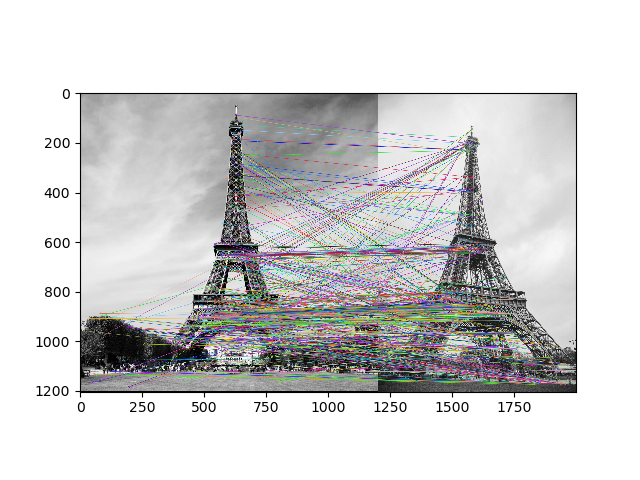
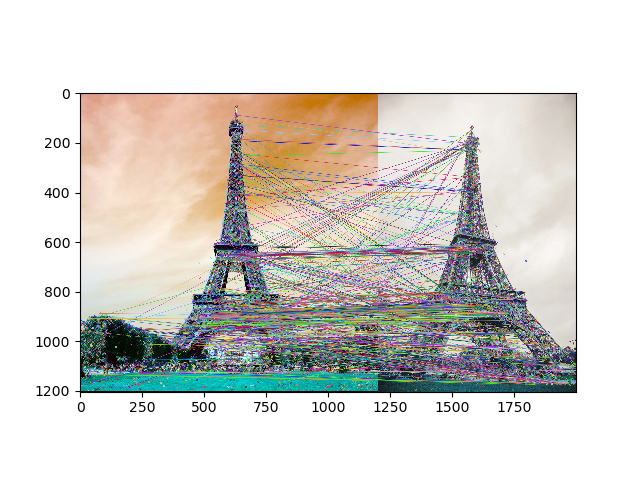
Fixed graphing for part 2

Changed region(s): [[0.125, 0.1875, 0.9062, 0.8438], [0.5625, 0.5625, 0.5938, 0.5938]]

diff --git a/Programming1/Programming1.py b/Programming1/Programming1.py
@@ -77,8 +77,7 @@ def keypoints(filename, idx):
     sift = cv.SIFT_create()
     kp, desc = sift.detectAndCompute(img, None)
 
-    outimg = img
-    img = cv.drawKeypoints(img, kp, outimg)
+    img = cv.drawKeypoints(grey, kp, img)
     cv.imwrite('sift_keypoints_{}.jpg'.format(idx),img)
     
     return grey, kp, desc
@@ -155,7 +154,7 @@ class Base:
 
 
 class K_Means(Base):
-    def __init__(self, data, k, r, dims=2):
+    def __init__(self, data, k, r, dims=2, shape=None):
         super().__init__(data, k, r, dims)
 
         best = np.inf
@@ -165,7 +164,8 @@ class K_Means(Base):
             if sses < best:
                 best = sses
                 bestCentroids = np.array(centroids)[:,0,:]
-
+        
+        # 2D Plot of clusters
         if dims == 2:
             for i in range(self.clusters):
                plt.plot(self.data[closestsCentroids==i, 0], 
@@ -176,15 +176,28 @@ class K_Means(Base):
             plt.show()
             return
         
-        fig = plt.figure()
-        ax = fig.add_subplot(projection='3d')
-        for i, m in zip(range(self.clusters), 
-                        ['o', 'x', '*', '#', '@', '!', '%', '^']):
+        # 3D Plot
+        #fig = plt.figure()
+        #ax = fig.add_subplot(projection='3d')
+        #for i, m in zip(range(self.clusters), 
+        #                ['o', 'x', '*', '#', '@', '!', '%', '^']):
+        #
+        #    d = self.data[closestsCentroids==i]
+        #    ax.scatter(d[:, 0], d[:, 1], d[:, 2], m)
+        #
+        #plt.show()
 
-            d = self.data[closestsCentroids==i]
-            ax.scatter(d[:, 0], d[:, 1], d[:, 2], m)
+        #self.data = self.data[closestsCentroids.astype(int)] 
+        #self.data = np.reshape(self.data, shape)
 
+        self.data = np.take(centroids, closestsCentroids.astype(int), 0)
+        self.data = np.reshape(self.data.astype(int), shape)
+
+        plt.imshow(self.data)
         plt.show()
+        a=5
+
+
 
     def run(self):
 
@@ -230,6 +243,9 @@ class K_Means(Base):
         return centroids, np.sum(bestCentroids[:,1]), bestCentroids[:,0]
 
 
+#data = np.genfromtxt('510_cluster_dataset.txt')
+#K_Means(data, 5, 10) 
+
 data = cv.imread('Kmean_img1.jpg')
 
 scale_percent = 20 # percent of original size
@@ -238,5 +254,6 @@ height = int(data.shape[0] * scale_percent / 100)
 dim = (width, height)
 data = cv.resize(data, dim)
 
+shape = data.shape
 data = np.reshape(data, (data.shape[0] * data.shape[1], 3))
-k = K_Means(data, 5, 2, dims=3)
+K_Means(data, 5, 25, dims=3, shape=shape)
